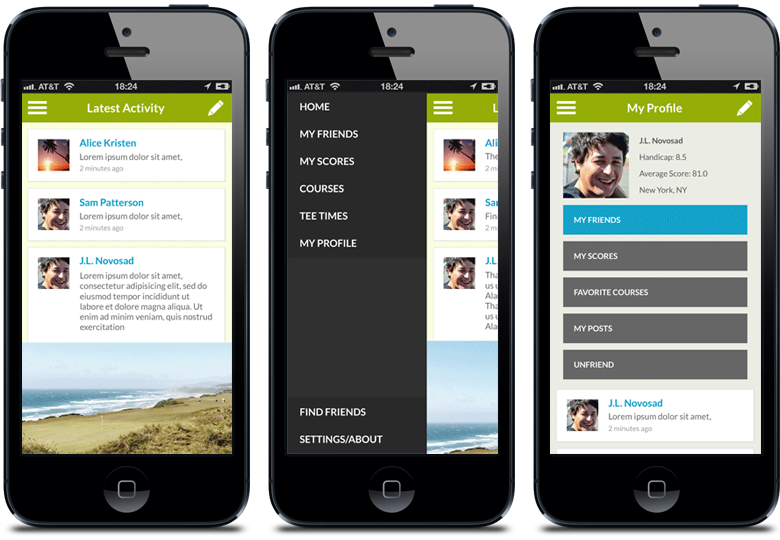
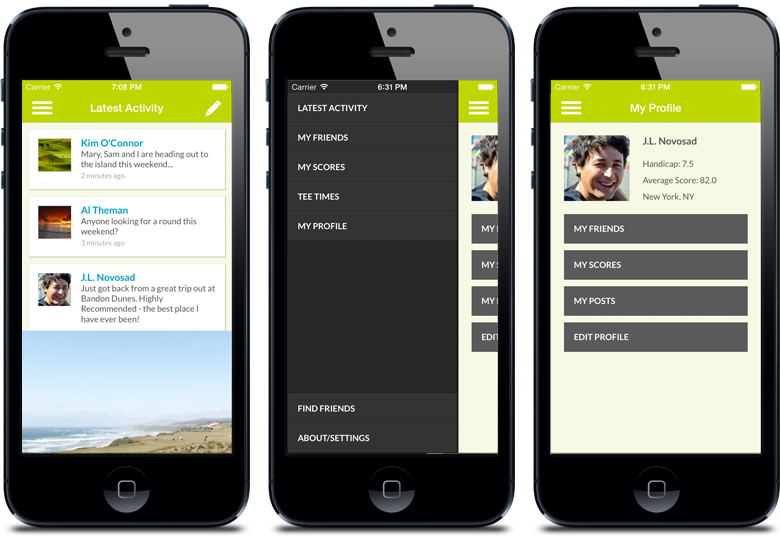
1.000

diff --git a/app/assets/stylesheets/bootstrap_and_overrides.css.scss b/app/assets/stylesheets/bootstrap_and_overrides.css.scss
@@ -153,7 +153,7 @@ $navbarBrandColor:                $navbarLinkColor;
 
 // Hero unit
 // -------------------------
-$heroUnitBackground:              $grayLighter;
+$heroUnitBackground:              none;
 $heroUnitHeadingColor:            inherit;
 $heroUnitLeadColor:               inherit;
 

diff --git a/db/seeds.rb b/db/seeds.rb
@@ -1,9 +1,27 @@
-puts 'SETTING UP MASTER USER LOGIN'
+puts 'SETTING UP USERS'
 user = User.create! :name => 'J.L. Novosad', :email => 'test1@golfpals.co', :password => 'foobar', :password_confirmation => 'foobar'
 puts 'New user created: ' << user.name
 user.add_role :admin
 
-puts 'SETTING UP MASTER USER LOGIN'
-user = User.create! :name => 'Mr. Popular', :email => 'golfpals@popzenith.com', :password => 'foobar', :password_confirmation => 'foobar'
-puts 'New user created: ' << user.name
-user.add_role :admin
+user = User.create! :name => "Al Theman", :email => "test2@golfpals.co", :password => "foobar", :password_confirmation => "foobar"
+user.microposts.create!(content: "Killing it")
+user.microposts.create!(content: "The price is reasonable")
+user.follow!(User.find_by_name("J.L. Novosad"))
+
+user = User.create! :name => "Jake Trout", :email => "test3@golfpals.co", :password => "foobar", :password_confirmation => "foobar"
+user.microposts.create!(content: "Are we doing this?")
+user.microposts.create!(content: "Say hi to Jimmy, the manager")
+user.follow!(User.find_by_name("J.L. Novosad"))
+
+user = User.create! :name => "Sandeee", :email => "test4@golfpals.co", :password => "foobar", :password_confirmation => "foobar"
+user.microposts.create!(content: "most of the fairways and greens were well taken care of and the design of the course had a good combination of interesting and challenging holes as well as some more straight forward ones.")
+user.microposts.create!(content: "woooooooooooo")
+user.follow!(User.find_by_name("J.L. Novosad"))
+
+user = User.create! :name => "Kim O'Connor", :email => "test5@golfpals.co", :password => "foobar", :password_confirmation => "foobar"
+user.microposts.create!(content: "Gooooooose")
+user.microposts.create!(content: "Check out the porch bar")
+user.follow!(User.find_by_name("J.L. Novosad"))
+
+user = User.create! :name => "Mr. Popular", :email => "golfpals@popzenith.com", :password => "foobar", :password_confirmation => "foobar"
+user.follow!(User.find_by_name("Al Theman"))
